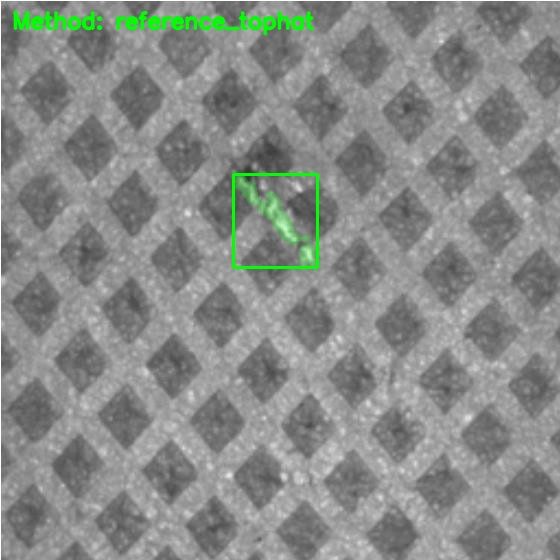
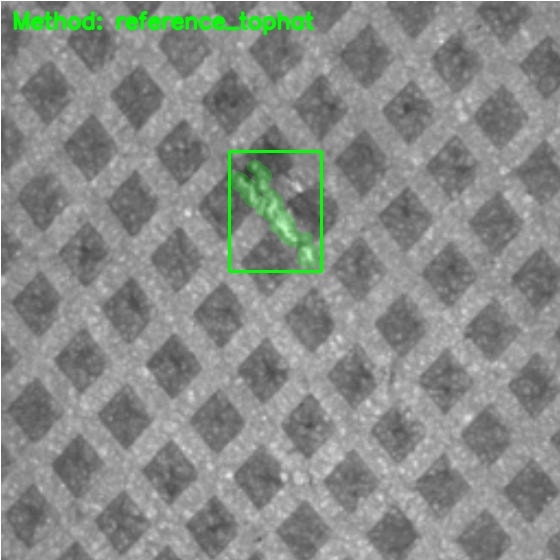
Imporved detect

Changed region(s): [[0.3946, 0.2429, 0.5768, 0.5161]]

diff --git a/detect.py b/detect.py
@@ -59,6 +59,24 @@ def component_score(
     return mean_response * 4.0 + area * 0.03 + max_response * 0.2 + elongated_bonus
 
 
+def expand_bbox(
+    bbox: BBox,
+    image_shape: Tuple[int, int],
+    pad_left: int = 0,
+    pad_top: int = 0,
+    pad_right: int = 0,
+    pad_bottom: int = 0,
+) -> BBox:
+    x, y, w, h = bbox
+    height, width = image_shape
+
+    x1 = max(0, x - pad_left)
+    y1 = max(0, y - pad_top)
+    x2 = min(width, x + w + pad_right)
+    y2 = min(height, y + h + pad_bottom)
+    return x1, y1, x2 - x1, y2 - y1
+
+
 def extract_best_component(
     mask: np.ndarray,
     score_map: Optional[np.ndarray] = None,
@@ -122,8 +140,8 @@ def detect_by_reference_tophat(
     threshold_value, binary = cv2.threshold(
         score_map, 0, 255, cv2.THRESH_BINARY + cv2.THRESH_OTSU
     )
-    if threshold_value < 15:
-        _, binary = cv2.threshold(score_map, 15, 255, cv2.THRESH_BINARY)
+    if threshold_value < 13:
+        _, binary = cv2.threshold(score_map, 13, 255, cv2.THRESH_BINARY)
 
     open_kernel = cv2.getStructuringElement(cv2.MORPH_ELLIPSE, (5, 5))
     close_kernel = cv2.getStructuringElement(cv2.MORPH_ELLIPSE, (7, 7))
@@ -198,11 +216,23 @@ def draw_detection(
 ) -> np.ndarray:
     result = defect_bgr.copy()
     overlay = result.copy()
-    overlay[mask > 0] = (0, 255, 0)
+    display_mask = cv2.dilate(
+        mask,
+        cv2.getStructuringElement(cv2.MORPH_ELLIPSE, (5, 5)),
+        iterations=1,
+    )
+    overlay[display_mask > 0] = (0, 255, 0)
     result = cv2.addWeighted(overlay, 0.25, result, 0.75, 0)
 
     if bbox is not None:
-        x, y, w, h = bbox
+        x, y, w, h = expand_bbox(
+            bbox,
+            defect_bgr.shape[:2],
+            pad_left=4,
+            pad_top=10,
+            pad_right=4,
+            pad_bottom=4,
+        )
         cv2.rectangle(result, (x, y), (x + w, y + h), (0, 255, 0), 2)
 
     cv2.putText(
